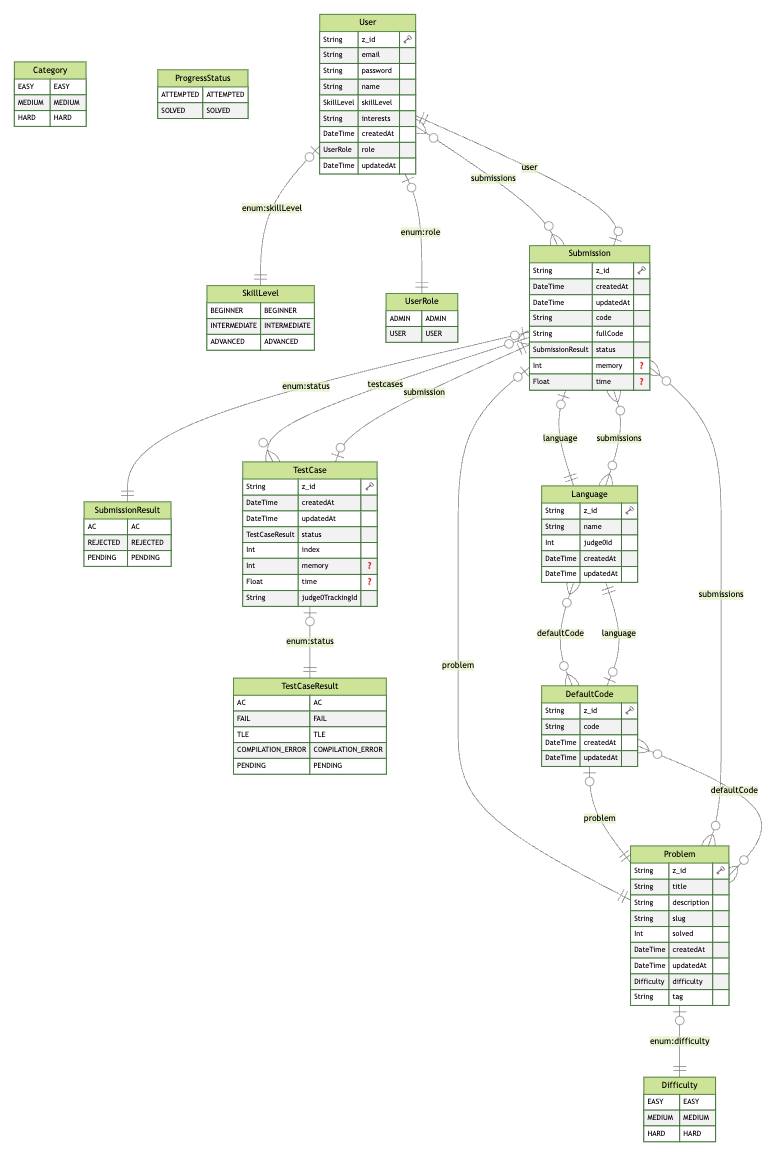
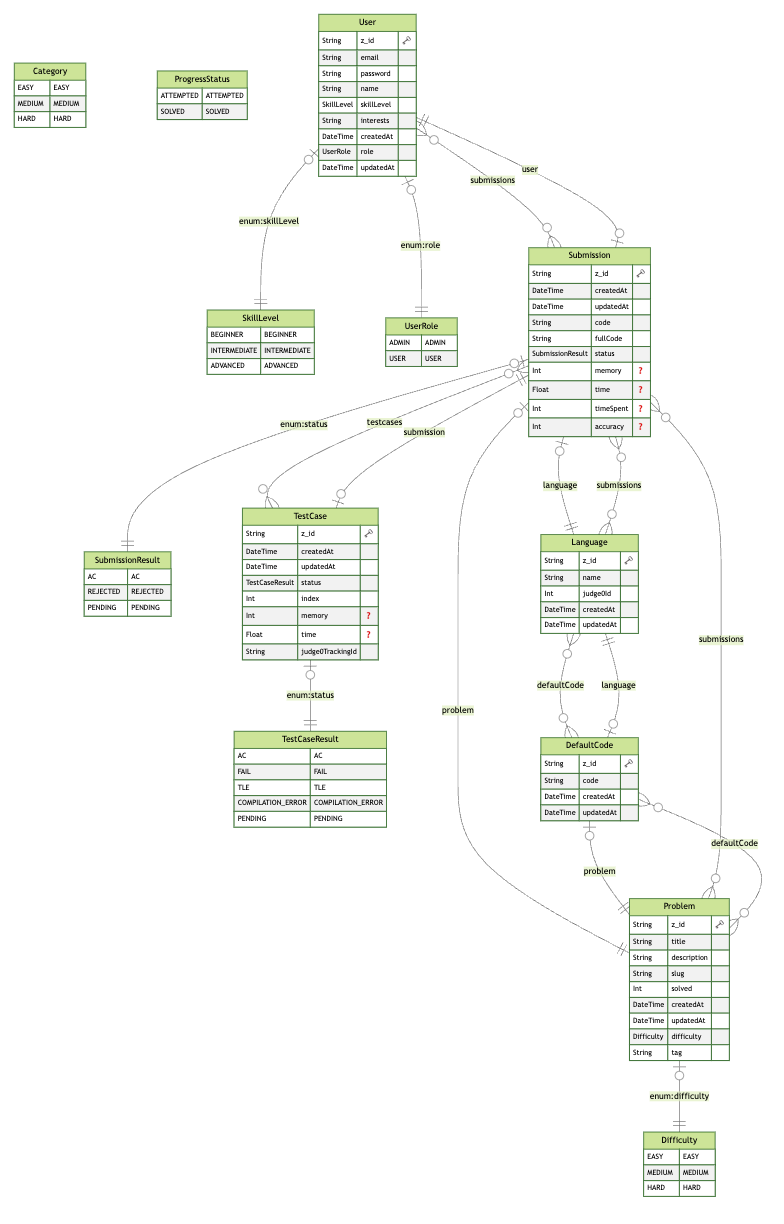
add the chart functionality

diff --git a/frondend/src/components/Editor/CodeEditorLanding.jsx b/frondend/src/components/Editor/CodeEditorLanding.jsx
@@ -1,6 +1,3 @@
-/* eslint-disable no-undef */
-/* eslint-disable react/prop-types */
-
 import { useState, useEffect } from "react";
 import CodeEditor from "./CodeEditor";
 import { languageOptions } from "../../constants/languageOptions";
@@ -27,10 +24,14 @@ const Landing = ({ challenge }) => {
   const [testCases, setTestCases] = useState([]);
   const [code, setCode] = useState("");
   const [status, setStatus] = useState("");
+  const [startTime, setStartTime] = useState(null);
 
   const token = localStorage.getItem("token");
 
   useEffect(() => {
+    // Set start time when the component mounts
+    setStartTime(Date.now());
+
     if (challenge?.defaultCode) {
       const defaultCodeObj = challenge.defaultCode.find(
         (code) => code.languageId === language?.value
@@ -50,12 +51,11 @@ const Landing = ({ challenge }) => {
   const onChange = (action, data) => {
     switch (action) {
       case "code": {
-        console.log("data", data);
         setCode(data);
         break;
       }
       default: {
-        console.warn("case not handled!", action, data);
+        toast.error("case not handled!", action, data);
       }
     }
   };
@@ -85,13 +85,17 @@ const Landing = ({ challenge }) => {
           setStatus(SubmitStatus.ACCEPTED);
           setTestCases(response.data.testcases || []);
           toast.success("Accepted!");
-          return;
         } else {
           setStatus(SubmitStatus.REJECTED);
           setTestCases(response.data.testcases || []);
           toast.error("Failed :(");
-          return;
         }
+
+        // Calculate and update accuracy
+        const accuracy = calculateAccuracy(response.data.testcases || []);
+        await updateSubmissionAccuracy(responseId, accuracy);
+
+        return;
       }
     } catch (error) {
       console.error("Polling error:", error);
@@ -101,8 +105,15 @@ const Landing = ({ challenge }) => {
   }
 
   const handleCompile = async () => {
+    if (!startTime) {
+      console.error("Start time is not set");
+      return;
+    }
+
+    const endTime = Date.now();
+    const timeSpent = Math.floor((endTime - startTime) / 1000); // Time spent in seconds
+
     setStatus(SubmitStatus.PENDING);
-    const token = localStorage.getItem("token");
     console.log("Token:", token);
 
     if (!token) {
@@ -118,6 +129,7 @@ const Landing = ({ challenge }) => {
           code: code,
           language: language.name,
           problemId: challenge.id,
+          timeSpent: timeSpent,
         },
         {
           headers: {
@@ -207,7 +219,7 @@ function renderResult(status) {
 }
 
 function TestcaseRender({ testCases }) {
-  console.log("TestcaseRender",testCases);
+  console.log("TestcaseRender", testCases);
   return (
     <div className="grid grid-cols-6 gap-4">
       {testCases.map((testcase, index) => (
@@ -223,3 +235,22 @@ function TestcaseRender({ testCases }) {
     </div>
   );
 }
+
+const calculateAccuracy = (testCases) => {
+  const totalTestCases = testCases.length;
+  const passedTestCases = testCases.filter(testCase => testCase.status === 'AC').length;
+  return (passedTestCases / totalTestCases) * 100; // Accuracy in percentage
+};
+
+const updateSubmissionAccuracy = async (submissionId, accuracy) => {
+  try {
+    await axios.patch(`${BACKEND_URL}/api/v1/submissions/${submissionId}`, { accuracy }, {
+      headers: {
+        Authorization: `Bearer ${localStorage.getItem('token')}`,
+      },
+    });
+    toast.success("Updated submission accuracy successfully");
+  } catch (error) {
+    toast.error("Error updating submission accuracy:", error);
+  }
+};

diff --git a/frondend/src/components/User/AccuracyTimeChart.jsx b/frondend/src/components/User/AccuracyTimeChart.jsx
@@ -1,0 +1,78 @@
+import { Pie } from 'react-chartjs-2';
+import { useEffect, useState } from 'react';
+import { Typography } from '@material-tailwind/react';
+import {
+  Chart as ChartJS,
+  ArcElement,
+  Tooltip,
+  Legend,
+} from 'chart.js';
+
+ChartJS.register(ArcElement, Tooltip, Legend);
+
+const calculateMean = (data) => {
+  const total = data.reduce((sum, value) => sum + value, 0);
+  return total / data.length;
+};
+
+export const AccuracyTimeChart = ({ submissions }) => {
+  const [chartData, setChartData] = useState({ accuracy: {}, timeSpent: {} });
+  const [meanTimeSpent, setMeanTimeSpent] = useState(0);
+
+  useEffect(() => {
+    if (submissions.length > 0) {
+      const accuracyData = submissions.map(submission => submission.accuracy || 0);
+      const timeSpentData = submissions.map(submission => submission.timeSpent || 0);
+
+      const meanAccuracy = calculateMean(accuracyData);
+      const meanTimeSpent = calculateMean(timeSpentData);
+
+      setChartData({
+        accuracy: {
+          labels: ['Mean Accuracy'],
+          datasets: [{
+            data: [meanAccuracy, 100 - meanAccuracy],
+            backgroundColor: ['rgba(75, 192, 192, 0.6)', 'rgba(192, 192, 192, 0.6)'],
+            borderColor: ['rgba(75, 192, 192, 1)', 'rgba(192, 192, 192, 1)'],
+            borderWidth: 1,
+          }],
+        },
+        timeSpent: {
+          labels: ['Mean Time Spent'],
+          datasets: [{
+            data: [meanTimeSpent, 100 - meanTimeSpent],
+            backgroundColor: ['rgba(153, 102, 255, 0.6)', 'rgba(192, 192, 192, 0.6)'],
+            borderColor: ['rgba(153, 102, 255, 1)', 'rgba(192, 192, 192, 1)'],
+            borderWidth: 1,
+          }],
+        },
+      });
+
+      setMeanTimeSpent(meanTimeSpent);
+    }
+  }, [submissions]);
+
+  return (
+    <div>
+      <div className="mb-8 flex flex-wrap gap-8">
+        <div>
+          <Typography variant="h3" color="blue-gray" className="mb-4 dark:text-white">Mean Accuracy</Typography>
+          {chartData.accuracy.datasets ? (
+            <div style={{ width: '300px', height: '300px' }}>
+              <Pie data={chartData.accuracy} />
+            </div>
+          ) : null}
+        </div>
+        <div>
+          <Typography variant="h3" color="blue-gray" className="mb-4 dark:text-white">{`Mean Time Spent : ${meanTimeSpent.toFixed(2)} seconds`}</Typography>
+          {chartData.timeSpent.datasets ? (
+            <div style={{ width: '300px', height: '300px' }}>
+              <Pie data={chartData.timeSpent} />
+            </div>
+          ) : null}
+         
+        </div>
+      </div>
+    </div>
+  );
+};

diff --git a/backend/src/controllers/submissionController.js b/backend/src/controllers/submissionController.js
@@ -2,6 +2,7 @@ import prisma from '../../prisma/prismaClient.js';
 import fs from "fs"
 import getProblemDetails from '../utils/problems.js';
 import { createClient } from 'redis';
+import { time } from 'console';
 
 const redisClient = createClient({ url: process.env.REDIS_URL || 'redis://localhost:6379' });
 await redisClient.connect();
@@ -19,7 +20,7 @@ const MOUNT_PATH = "../problems";
 export  const createSubmission = async (req, res) => {
     try {
       console.log(req.body);
-      const { problemId, language, code } = req.body;
+      const { problemId, language, code,timeSpent } = req.body;
       console.log("language in submission", language);
       const userId = req.userId;
   
@@ -49,6 +50,7 @@ export  const createSubmission = async (req, res) => {
           code: code,
           fullCode: problem.fullBoilerplateCode,
           status: "PENDING",
+          timeSpent: timeSpent
         }
       });
         
@@ -153,27 +155,31 @@ export const getSubmission = async (req, res) => {
 
 
 // Update a challenge
-export const updateSubmissions= async (req, res) => {
+export const updateSubmissions = async (req, res) => {
   const { id } = req.params;
-  const {  testCases,memory,time, } = req.body;
+  const { testCases, memory, time, accuracy } = req.body;
 
   try {
-      const challenge = await prisma.submission.update({
-          where: { id: String(id) },
-          data: {
-              testCases,
-              memory,
-              time,
+    // Create an object with only the fields that are provided
+    const updateData = {};
 
-          },
-      });
+    if (testCases !== undefined) updateData.testCases = testCases;
+    if (memory !== undefined) updateData.memory = memory;
+    if (time !== undefined) updateData.time = time;
+    if (accuracy !== undefined) updateData.accuracy = accuracy;
 
-      res.status(200).json(challenge);
+    const challenge = await prisma.submission.update({
+      where: { id: String(id) },
+      data: updateData,
+    });
+
+    res.status(200).json(challenge);
   } catch (error) {
-      console.error('Error updating challenge:', error);
-      res.status(500).json({ error: 'Error updating challenge' });
+    console.error('Error updating challenge:', error);
+    res.status(500).json({ error: 'Error updating challenge' });
   }
 };
+
 
 // Delete a submission
 export const deleteSubmission = async (req, res) => {

diff --git a/frondend/src/components/User/Profile.jsx b/frondend/src/components/User/Profile.jsx
@@ -8,6 +8,7 @@ import 'react-calendar-heatmap/dist/styles.css';
 import { Tooltip as ReactTooltip } from 'react-tooltip';
 import { BACKEND_URL } from '../../config';
 import "../../App.css";
+import { AccuracyTimeChart } from "./AccuracyTimeChart";
 
 const TABLE_HEAD = ["Status", "LanguageId", "Memory", "Time", "Submitted At"];
 
@@ -116,8 +117,17 @@ const Profile = () => {
             <div className="h-32 bg-gray-300 rounded animate-pulse"></div>
           </div>
         )}
+       {/* Accuracy and Time Spent Chart */}
+       {submissions.length > 0 && (
+          <div className="mb-8">
+            <h3 className="text-xl font-semibold mb-4 dark:text-white">Accuracy & Time Spent</h3>
+            <AccuracyTimeChart submissions={submissions} />
+          </div>
+        )}
 
         {/* Submissions Table */}
+
+        <h3 className="text-xl font-semibold mb-4 dark:text-white">Submissions</h3>
         {submissions.length > 0 ? (
           <div>
           <Card className="h-full w-full overflow-scroll">

diff --git a/backend/src/controllers/problemController.js b/backend/src/controllers/problemController.js
@@ -62,7 +62,7 @@ export const createChallenge = async (req, res) => {
             }     
         })
 
-        console.log(languageInfo);
+       
 
     const code = await promisifedReadFile(
       `${MOUNT_PATH}/${problemSlug}/boilerplate/function.${language}`
@@ -108,11 +108,10 @@ export const getChallenges = async (req, res) => {
 // Get a challenge by ID
 export const getChallengeById = async (req, res) => {
   const { id } = req.params;
-  console.log(id);
   try {
     const challenge = await prisma.problem.findUnique({
       where: {
-        id: new ObjectId(String(id))
+        id: id
         
       },
       include: { defaultCode: true }

diff --git a/worker/src/worker.js b/worker/src/worker.js
@@ -8,7 +8,7 @@ dotenv.config();
 
 const REDIS_URL = process.env.REDIS_URL || 'redis://localhost:6379';
 const JUDGE0_API_URL = process.env.JUDGE0_API_URL || 'https://judge0.chetechs.com/';
-const CALLBACK_URL = process.env.JUDGE0_CALLBACK_URL || 'https://515a-2a04-4a43-8fcf-f6a4-a4fd-30fa-cef7-dde1.ngrok-free.app/api/v1/submission-callback';
+const CALLBACK_URL = process.env.JUDGE0_CALLBACK_URL || 'https://c772-2a04-4a43-8f6f-f44b-4003-839e-d89b-d651.ngrok-free.app/api/v1/submission-callback';
 ;
 
 const redisClient = createClient({ url: REDIS_URL });

diff --git a/frondend/src/components/Challenges/Submission.jsx b/frondend/src/components/Challenges/Submission.jsx
@@ -21,7 +21,7 @@ export function Submissions({challenge}) {
   useEffect(() => {
     const fetchChallenge = async () => {
       try {
-        const response = await axios.get(`${BACKEND_URL}/api/v1/submissions/${challenge?.id}`);
+        const response = await axios.get(`${BACKEND_URL}/api/v1/submissionbyid/${challenge?.id}`);
          console.log(response,"success");
 
         setSubmission(response.data);

diff --git a/backend/src/controllers/callbackController.js b/backend/src/controllers/callbackController.js
@@ -22,6 +22,8 @@ const outputMapping = {
 };
 
 export const submissionCallback = async (req, res) => {
+
+  console.log("caleefdkhbjdshbjshdfdv jhsdgfhsdvfhjsdfv");
   try {
     const { token, status, time, memory } = req.body;
     if (!token || !status || !status.description) {

diff --git a/frondend/src/components/Challenges/ChallengeSubmitBar.jsx b/frondend/src/components/Challenges/ChallengeSubmitBar.jsx
@@ -15,6 +15,8 @@ import {  Submissions } from './Submission';
 
 const ChallengeSubmitBar = ({ challenge }) => {
   
+
+  console.log("ChallengeSubmitBar",challenge);
  
   const [activeTab, setActiveTab] = useState("submit");
   
